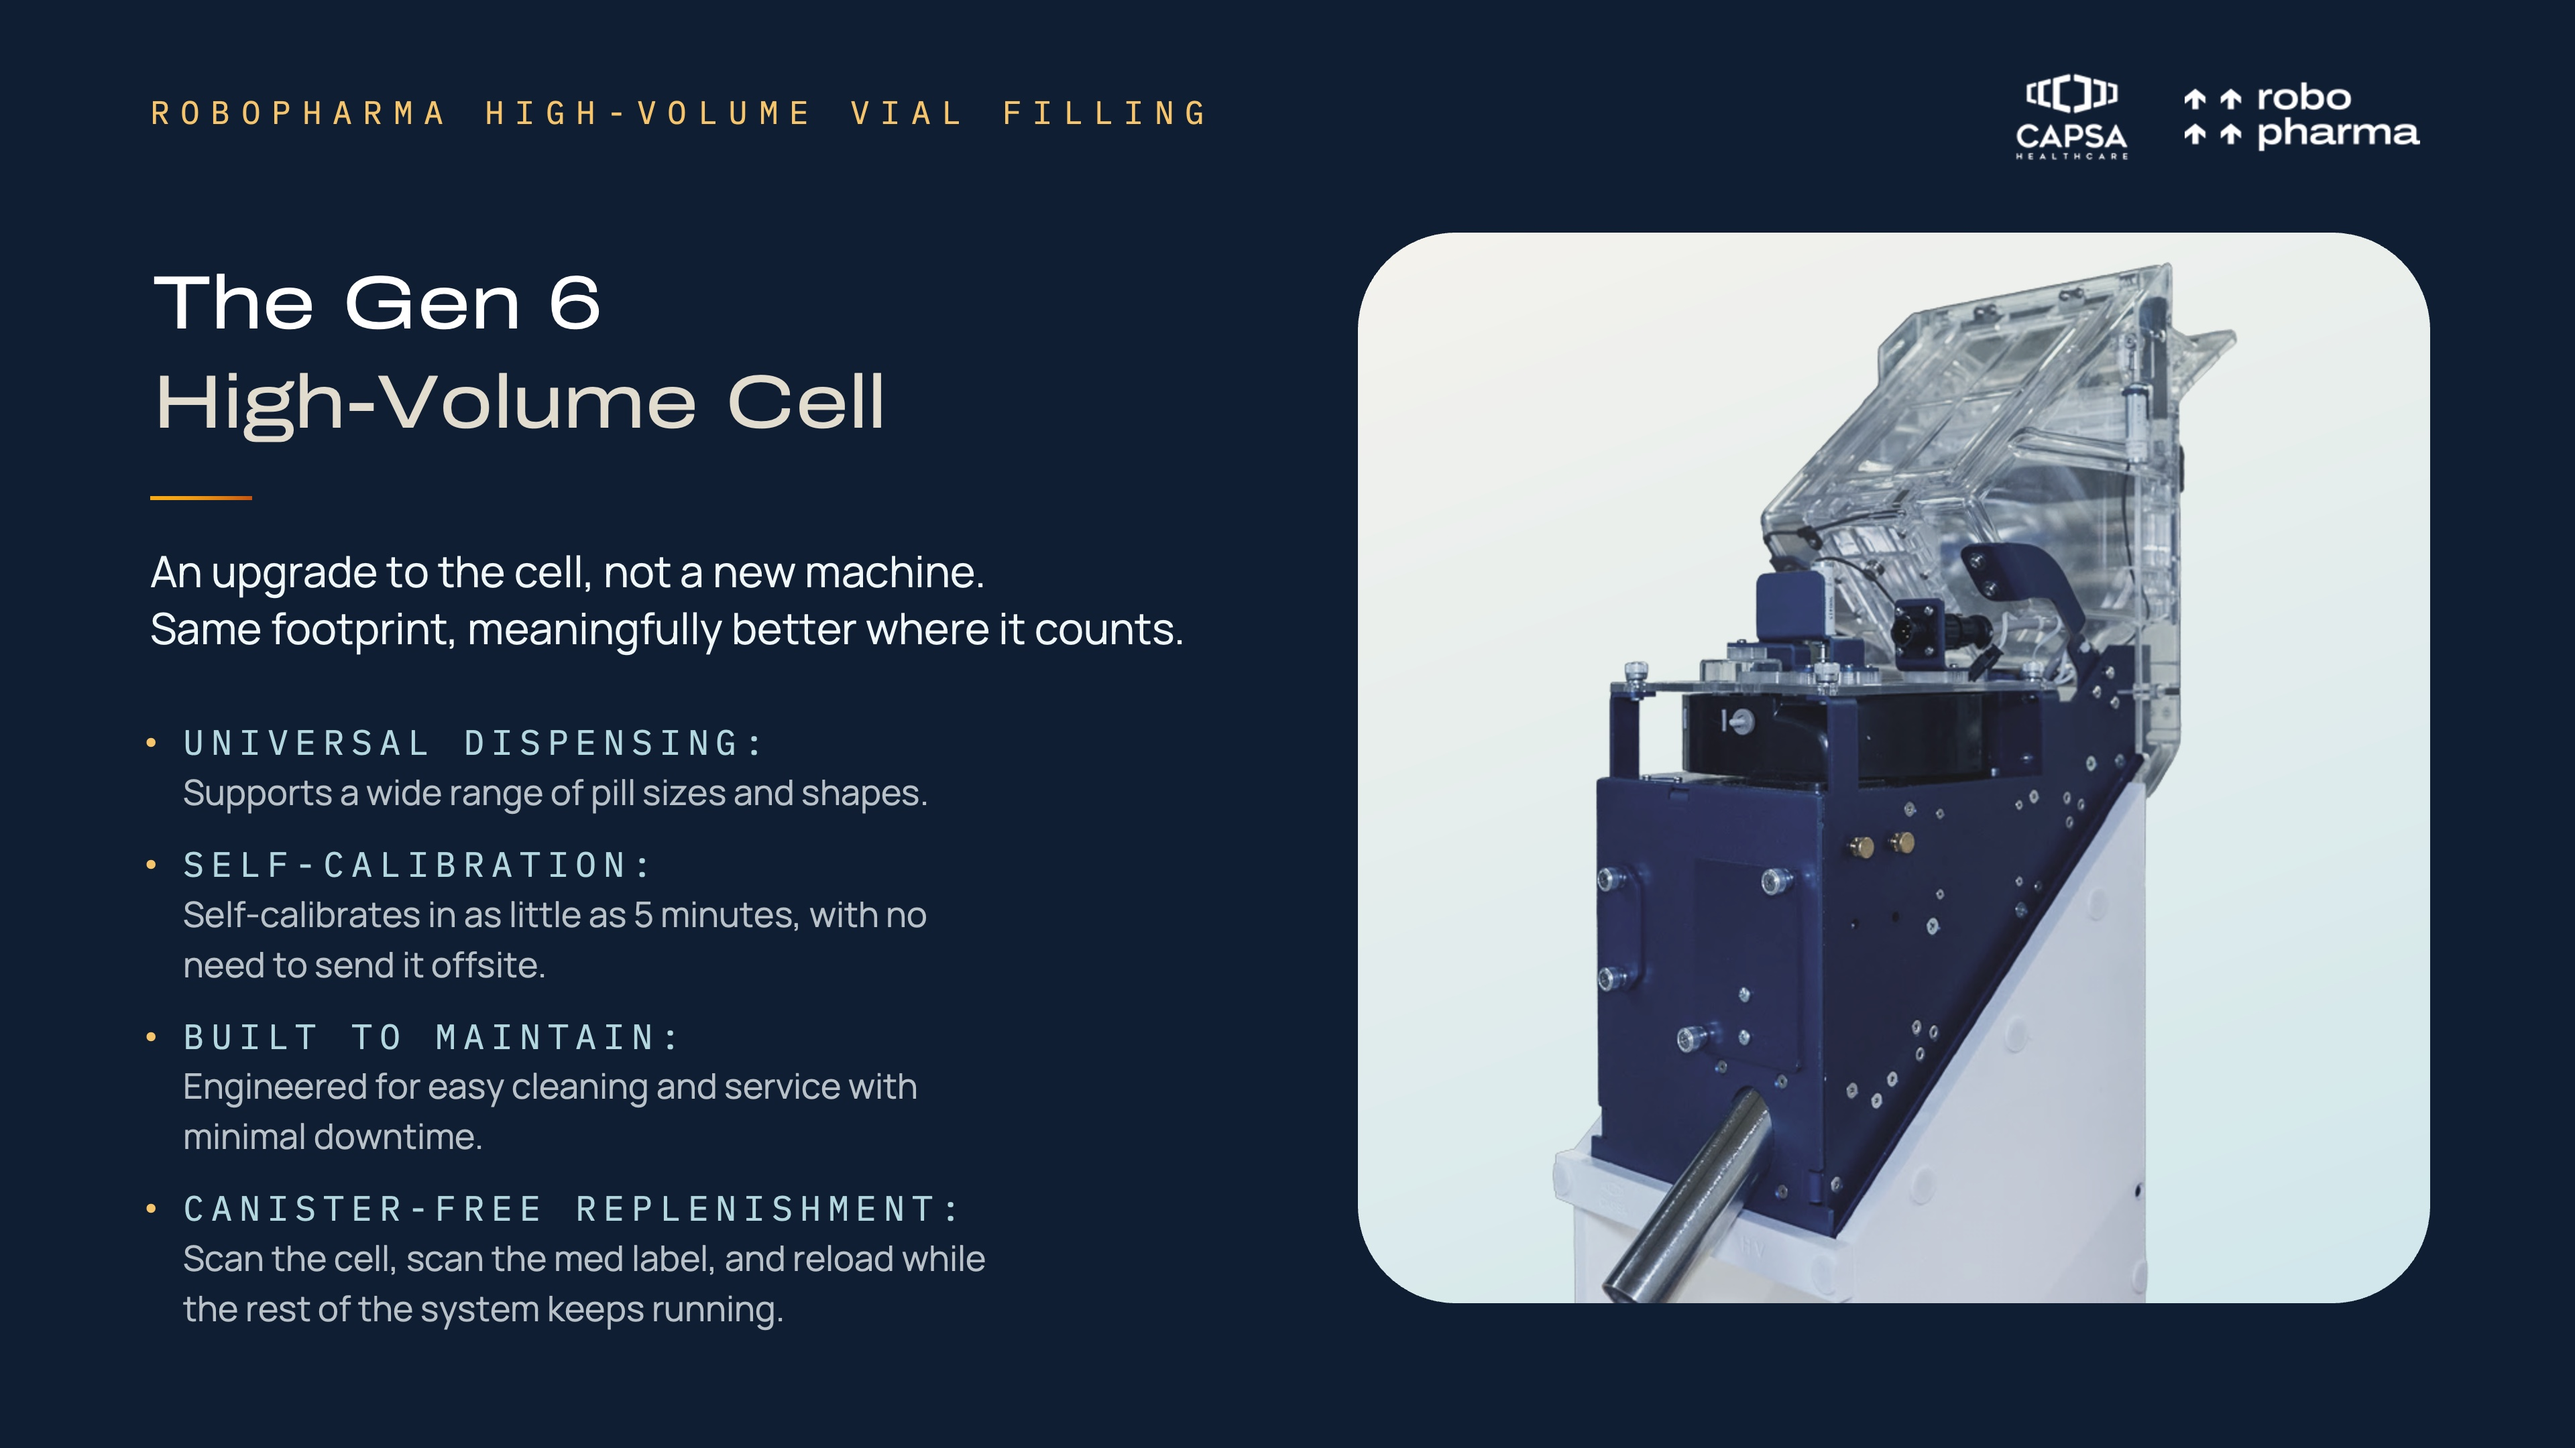
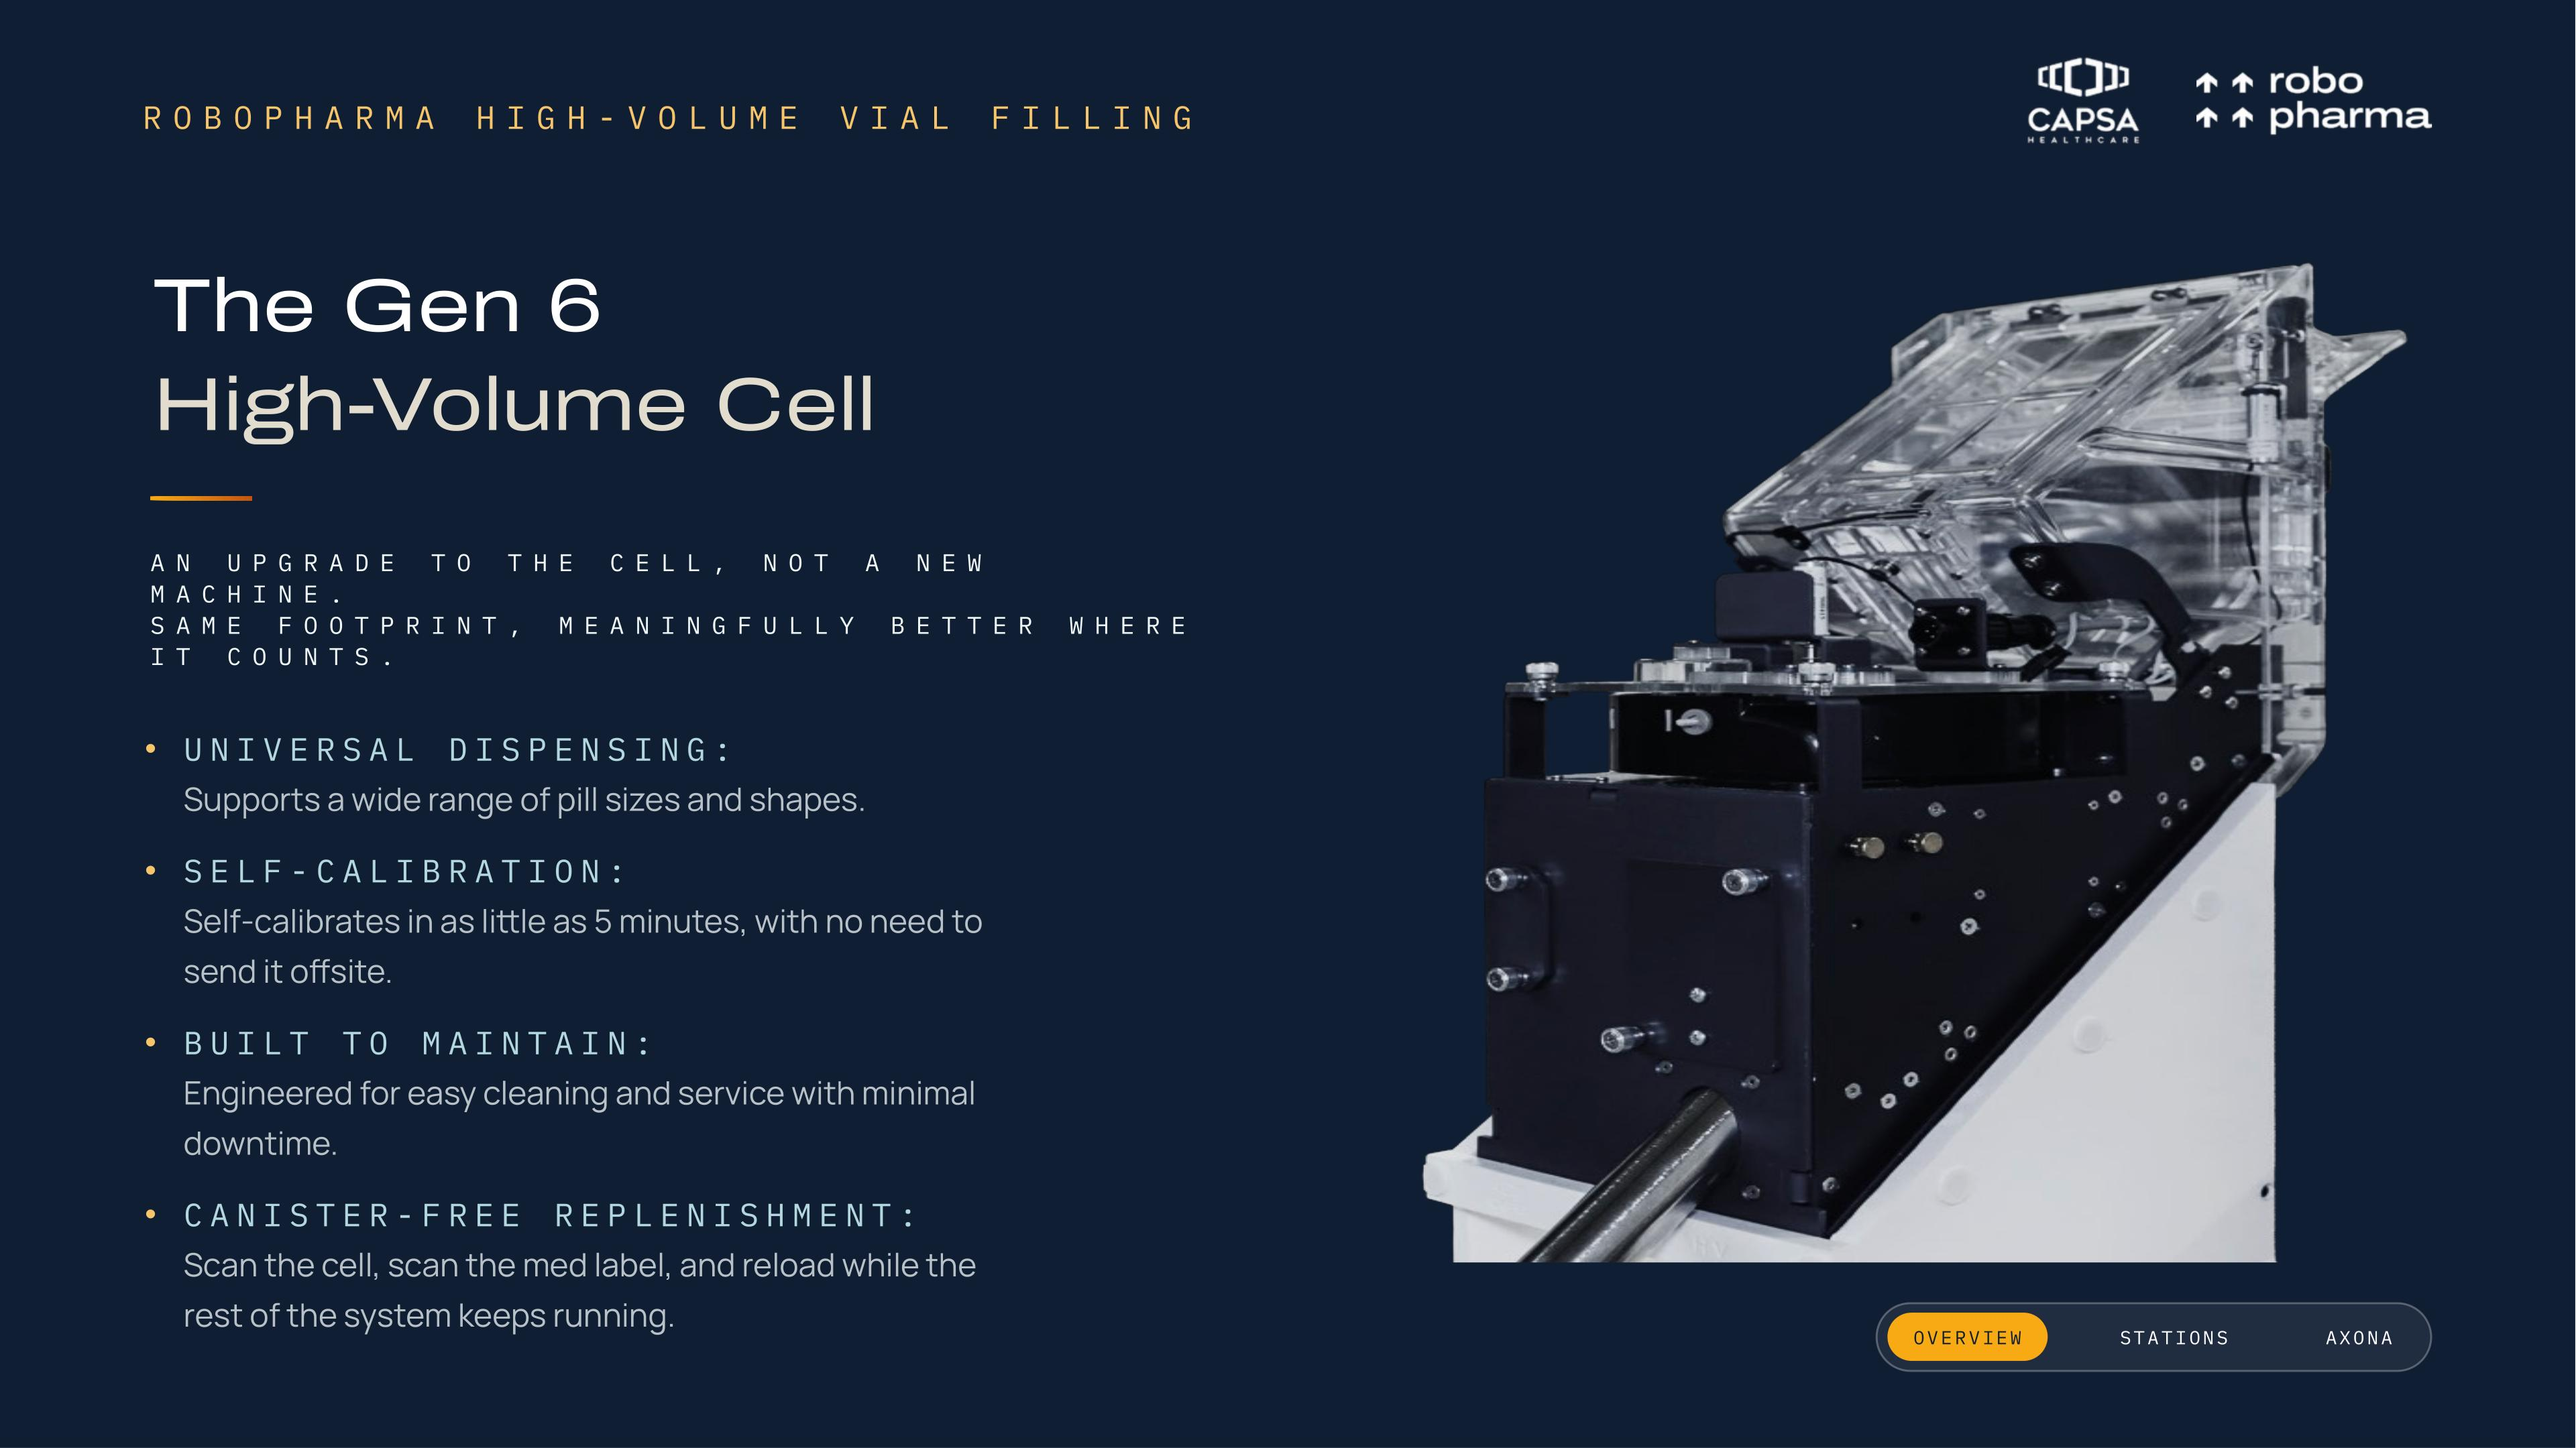
Restore navigation pills lost in the PowerPoint re-export
The re-export dropped the OVERVIEW / STATIONS / AXONA pill painted into the
slide artwork -- the pill region measured a stdev of 0.0, i.e. blank. Tap
targets still worked, but nothing showed where to press.

Only slide 6 needed the new render (its stat figures wrapped mid-number), so
every other slide goes back to the previous artwork. Slide 6 keeps the corrected
figures with the pill grafted back in; the footer fill matches within 2/255.

Cache bumped to v4.

diff --git a/sw.js b/sw.js
@@ -18,7 +18,7 @@
  *     whole point. Replacing an image means giving it a new name, or bumping
  *     CACHE below.
  */
-var CACHE = 'nacds-kiosk-v3';   // v3: slides re-exported from PowerPoint, +3 Axona HS slides
+var CACHE = 'nacds-kiosk-v4';   // v4: navigation pills restored
 
 var SHELL = ['./', './index.html', './slides/slide-01.jpg'];
 
